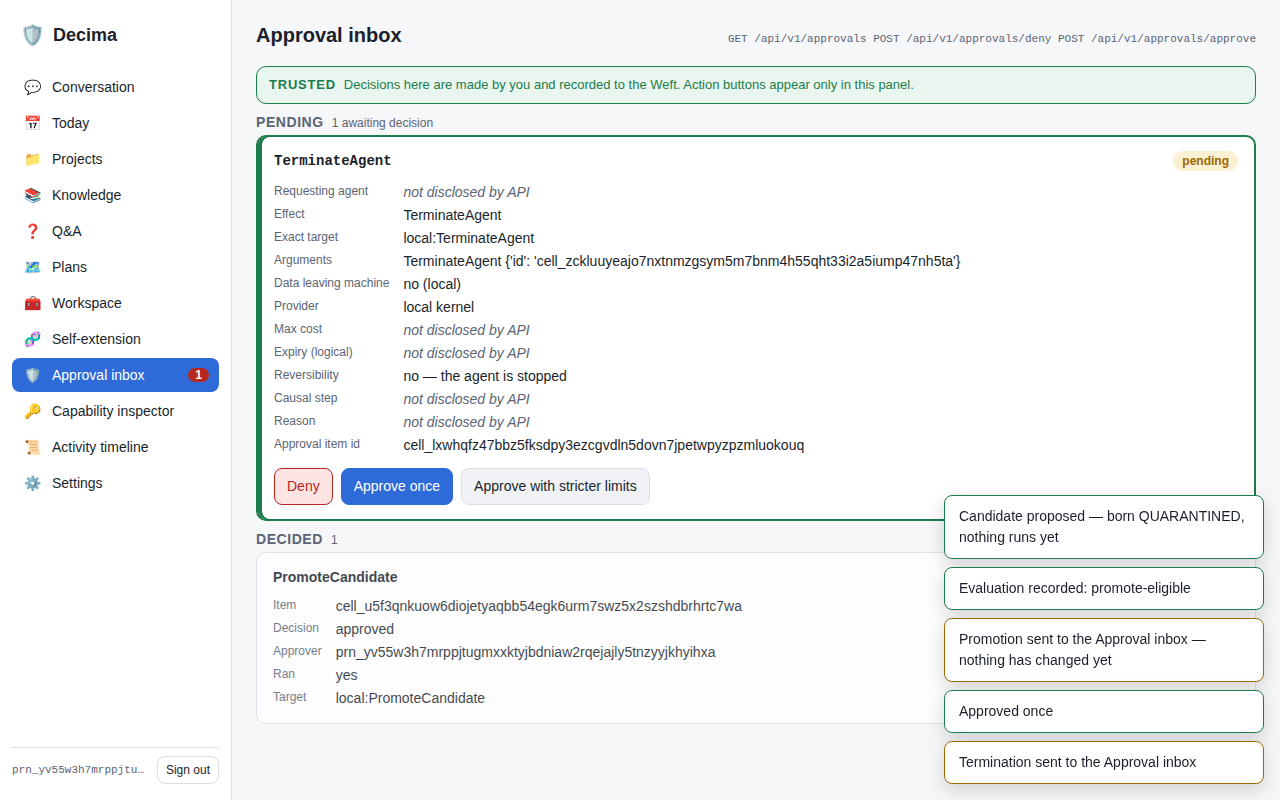
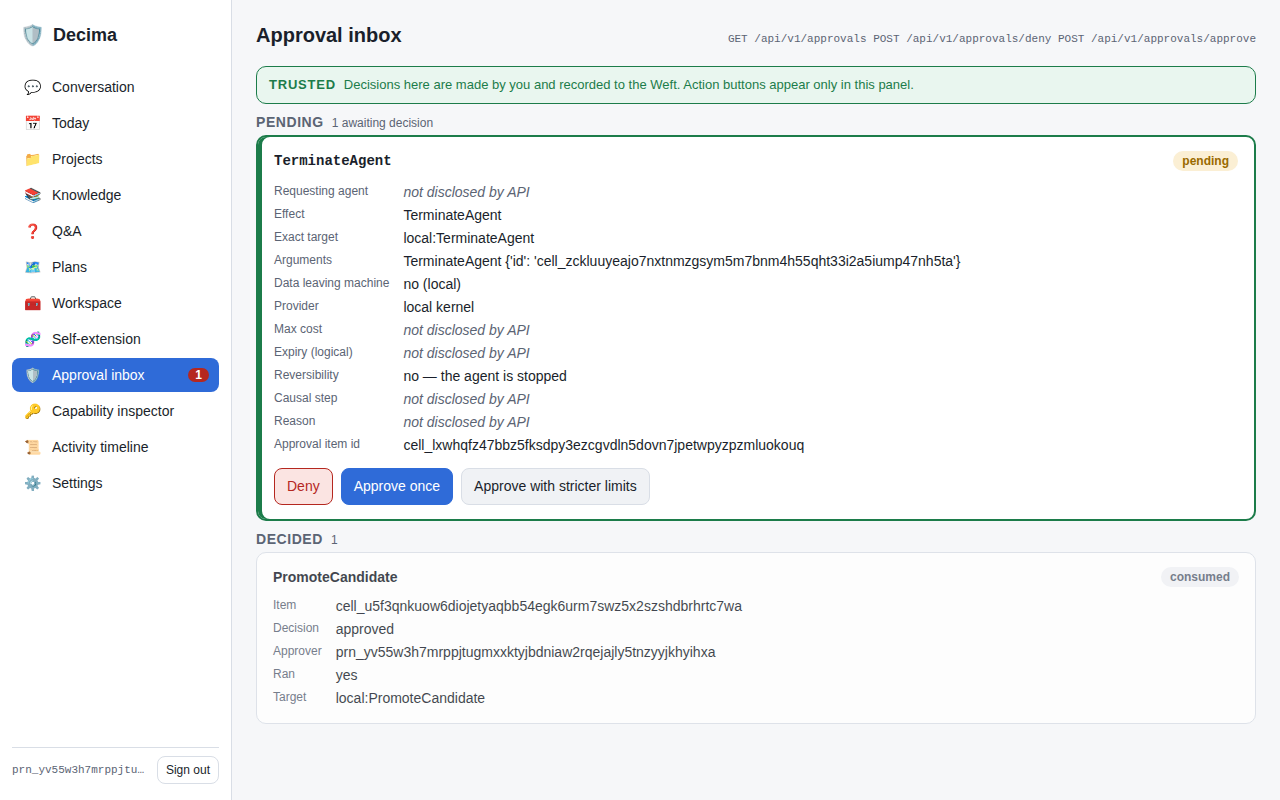
The evidence had a clock in it: clear the toast channel before every capture
`docs/release-evidence/visual/*.png` were not reproducible. A second run of the browser
suite against an unchanged tree rewrote some of them, and the churn was written off as
noise for long enough that it hid a genuinely stale artifact.

WHAT VARIED, measured rather than guessed. The toast stack (`#toasts`, position:fixed) is
the only thing on these screens that is not a function of the Weft. `toast()` in
`decima/shell/frontend/js/app.js` removes each node on a WALL-CLOCK
`setTimeout(..., 4000)`, so the number of toasts still painted when a screenshot fires is a
function of how fast the host executed the preceding steps and of nothing else. Two
back-to-back `npx playwright test` runs on this host rewrote plans-desktop.png,
plans-mobile.png and qa-mobile.png; a pixel diff put every differing pixel inside a toast
box (run A still had "Workspace run created" alive on Plans, run B did not). Everything
else already reproduced byte-for-byte: cell ids (fixed identity seed, no clock in signed
content), layout, fonts (no @font-face, remote fonts CSP-refused) and animations (none).

THE FIX. `clearToasts()` empties the host immediately before each capture. Not masking:
`mask:` paints the element's bounding box and that box grows and shrinks with the toast
count, so the mask itself would still vary. Not waiting: `toHaveCount(0)` costs up to 4s
per capture and puts the wall clock back into the test. The pending removal timer guards
[…]

Changed region(s): [[0.75, 0.625, 1.0, 1.0]]

diff --git a/tests/browser/specs/visual_a11y.spec.js b/tests/browser/specs/visual_a11y.spec.js
@@ -24,9 +24,22 @@
 // DOM-level structural checks (roles, accessible names, landmarks, tab order, duplicate ids)
 // — it does NOT claim full WCAG conformance.
 //
-// The security-critical screens (Q&A cited answer, Plans, Approval inbox, Workspace) are
-// screenshotted at both viewports into docs/release-evidence/visual/ for the reviewer to
-// inspect. Kept deliberately to a small set of PNGs.
+// The security-critical screens (Q&A cited answer, Plans, Approval inbox, Workspace,
+// Self-extension) are screenshotted at both viewports into docs/release-evidence/visual/ for
+// the reviewer to inspect. Kept deliberately to a small set of PNGs.
+//
+// Those PNGs are EVIDENCE, so they must be REPRODUCIBLE: a second run against an unchanged
+// tree has to leave them byte-identical, or a real UI regression is indistinguishable from
+// host-speed noise. The transient toast stack is cleared immediately before every capture for
+// exactly that reason (see `clearToasts` for the measured evidence and the rejected
+// alternatives) — with it cleared, every one of the ten files reproduces byte-for-byte, so
+// any modification to them is a genuine UI-change signal and should be reviewed as one.
+//
+// CAVEAT on that guarantee, stated rather than hidden: two assertions below deliberately
+// tolerate either of two rendered states (the plan pill /ACTIVE|COMPLETED/i and the organ
+// /PROMOTED|QUARANTINED/). Byte-identity therefore holds per host; a host that raced those
+// transitions differently would legitimately capture the other pill. Tighten those two first
+// if byte-identity is ever asserted in CI across heterogeneous runners.
 
 const fs = require("fs");
 const path = require("path");
@@ -114,6 +127,53 @@ async function offscreenElements(page, selector) {
     },
     { selector, slop: 2 }
   );
+}
+
+// Remove every live toast before a capture, and return how many were removed.
+//
+// WHY THIS EXISTS, AND WHAT IT REFUSES. The toast stack (`#toasts`, `position: fixed`) is the
+// ONE thing on these screens that is not a function of the Weft. `toast()` in
+// `decima/shell/frontend/js/app.js` drops each node on a WALL-CLOCK `setTimeout(..., 4000)`,
+// so the number of toasts still painted when a screenshot fires is a function of how fast the
+// host executed the preceding steps — nothing else. That made the release evidence
+// unreproducible: two back-to-back full-suite runs on an unchanged tree rewrote
+// `plans-desktop.png`, `plans-mobile.png` and `qa-mobile.png`, and every differing pixel lay
+// inside the toast boxes (e.g. a run that still had "Workspace run created" alive vs. one that
+// did not). Clearing the host makes the captures a pure function of the seeded Cells.
+//
+// It also removes a REAL defect in the evidence, not just noise: an unpatched `qa-mobile.png`
+// had "Termination sent to the Approval inbox" and "Approved once" painted over the
+// "OPERATOR QUESTION" and "MODEL ANSWER — GENERATED BY DETERMINISTIC-OFFLINE" zone labels —
+// transient chrome obscuring the exact trust boundary the screenshot exists to prove.
+//
+// What it does NOT do: it does not mask, wait out, or otherwise paper over a rendered
+// difference. Masking was rejected on evidence — `mask:` paints the element's bounding box,
+// and that box grows and shrinks with the toast count, so the mask itself would still vary.
+// Waiting (`toHaveCount(0)`) would cost up to 4s per capture and put the wall clock back into
+// the test. Everything outside `#toasts` is already deterministic: Cell ids (a fixed identity
+// seed, no clock in signed content), layout, fonts (no `@font-face`, remote fonts CSP-refused)
+// and animations (there are none) reproduce byte-for-byte.
+//
+// The pending removal timer guards on `node.parentNode`, so orphaning the nodes is safe.
+async function clearToasts(page, ctxLabel) {
+  const removed = await page.evaluate(() => {
+    const host = document.getElementById("toasts");
+    if (!host) return -1;
+    let n = 0;
+    while (host.firstChild) {
+      host.removeChild(host.firstChild);
+      n += 1;
+    }
+    return n;
+  });
+  // A missing host means this guard has silently stopped working and the evidence has gone
+  // back to varying with host speed. Fail loudly rather than keep shipping PNGs that claim
+  // to be reproducible and are not.
+  expect(
+    removed,
+    `${ctxLabel}: #toasts host is gone — the screenshot determinism guard no longer works`
+  ).toBeGreaterThanOrEqual(0);
+  return removed;
 }
 
 // Assert a control identified by role+name exists, is visible, has a non-empty accessible
@@ -441,6 +501,10 @@ test.describe("Visual / trust-boundary / a11y review of all principal screens", 
 
         // -- screenshot the security-critical screens at both viewports -------
         if (shotScreens.has(id)) {
+          // Transient toasts are the only non-Weft-derived pixels on these screens and they
+          // expire on a wall clock: clear them so the evidence is byte-reproducible and so no
+          // toast can sit on top of a trust-zone label. See `clearToasts` for the evidence.
+          await clearToasts(page, where);
           await page.screenshot({
             path: path.join(EVIDENCE_DIR, `${id}-${vp.tag}.png`),
             fullPage: true,
